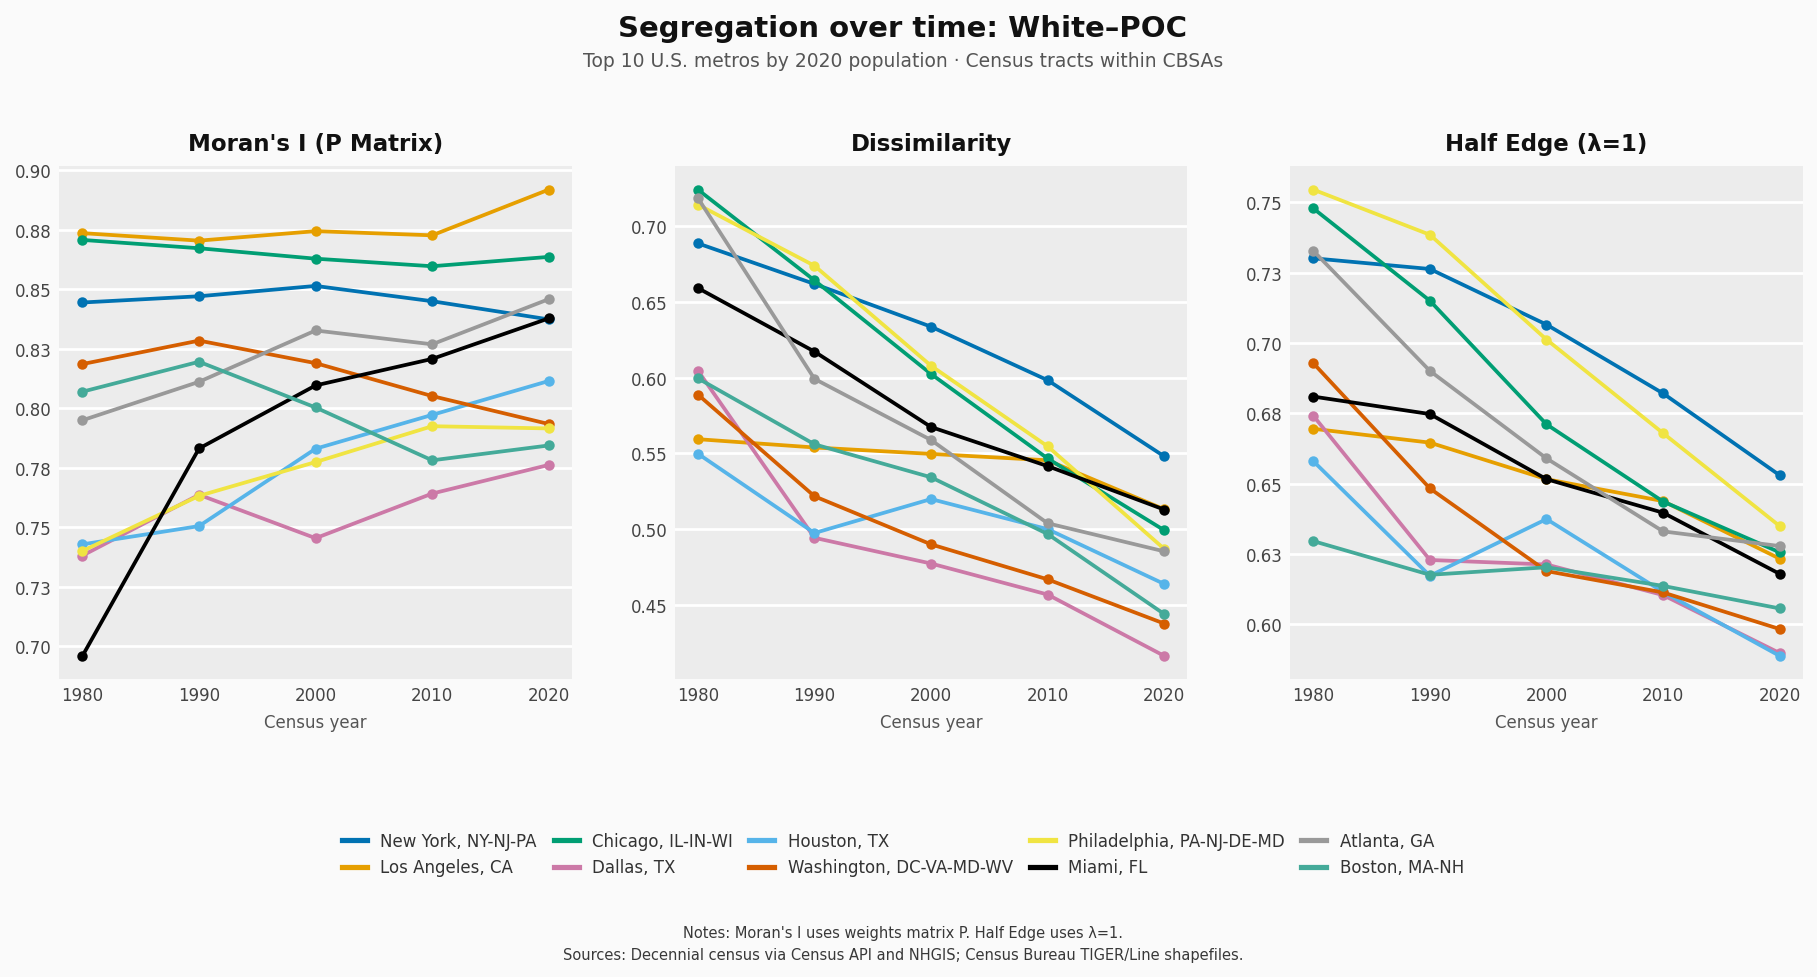
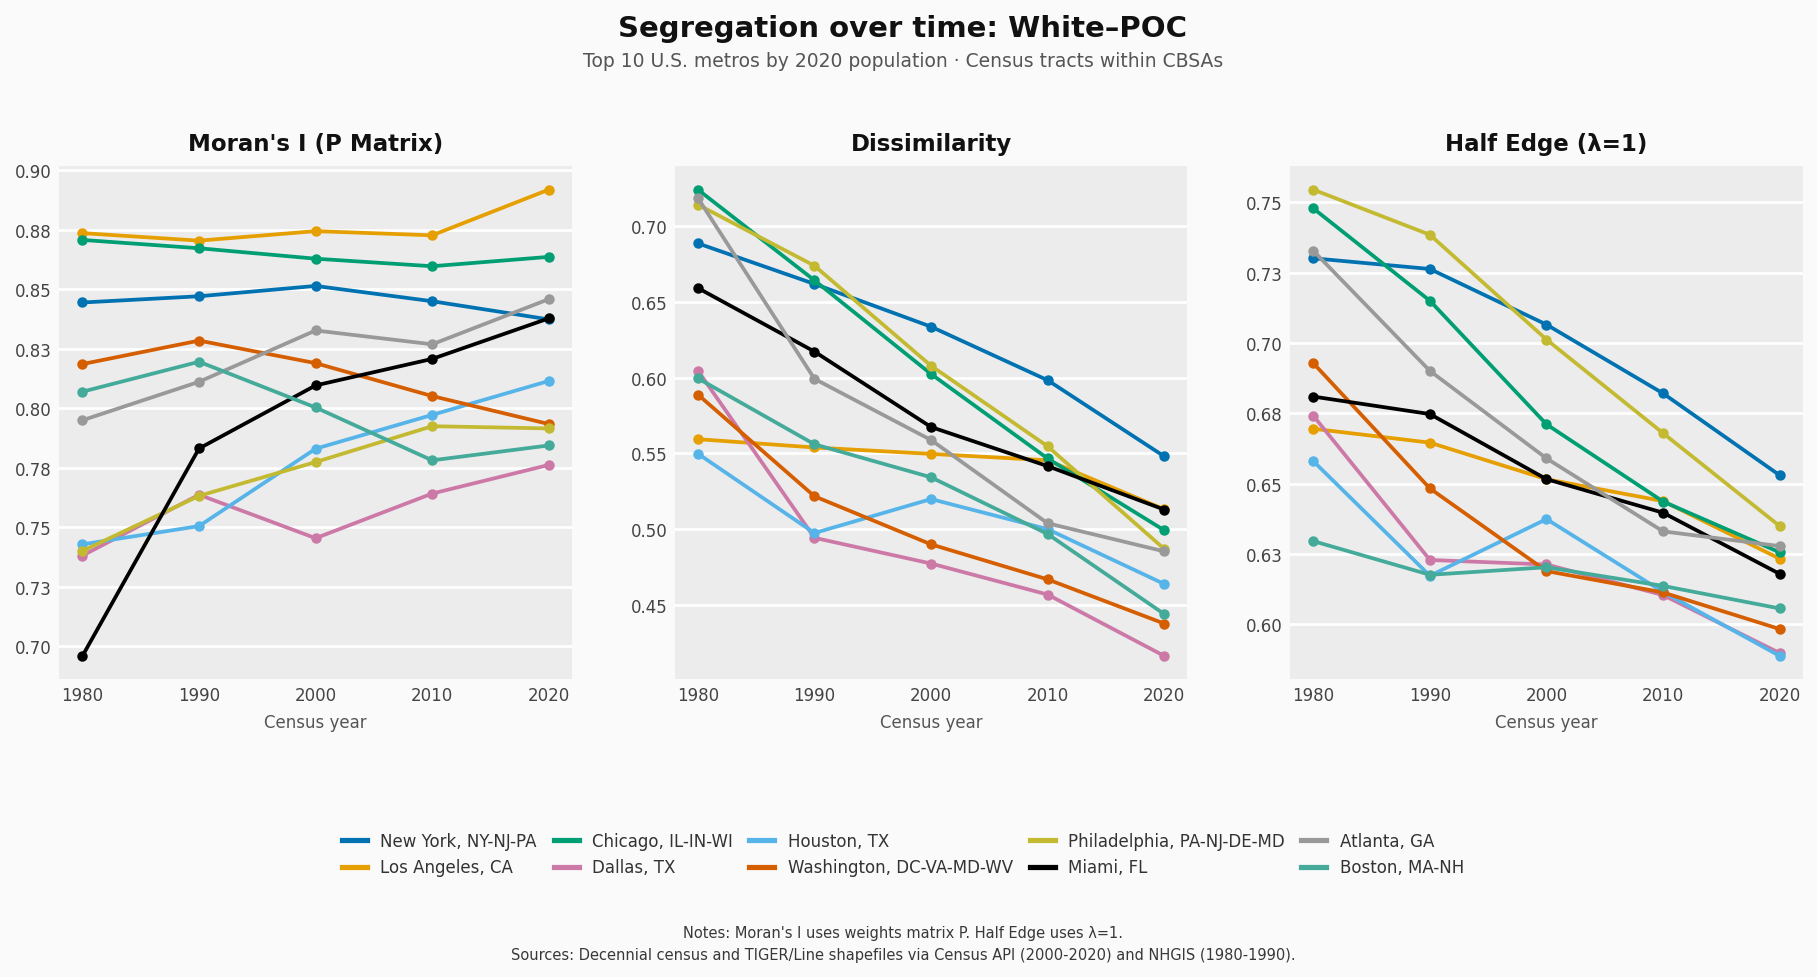
update figures

diff --git a/pipeline/generate_figures.py b/pipeline/generate_figures.py
@@ -18,7 +18,7 @@ PALETTE = [
     "#cc79a7",  # mauve
     "#56b4e9",  # sky
     "#d55e00",  # vermillion
-    "#f0e442",  # yellow
+    "#c3ba32",  # yellow
     "#000000",  # black
     "#999999",  # gray
     "#44aa99",  # teal
@@ -29,6 +29,42 @@ GRID_METRICS = {
     "dissimilarity_1": "Dissimilarity",
     "half_edge_1": "Half Edge (λ=1)",
 }
+
+
+def _build_metric_labels() -> dict:
+    lam_display = {"0": "λ=0", "0.5": "λ=0.5", "1": "λ=1", "2": "λ=2", "10": "λ=10", "lim": "λ=∞"}
+    bases = {
+        "skew_self":   "Skew (self)",
+        "skew_other":  "Skew (other)",
+        "edge":        "Edge",
+        "skew'_self":  "Skew′ (self)",
+        "skew'_other": "Skew′ (other)",
+        "half_edge":   "Half Edge",
+    }
+    labels = {}
+    for lam, lam_label in lam_display.items():
+        for base, title in bases.items():
+            labels[f"{base}_{lam}"] = (title, lam_label)
+            labels[f"{base}_exact_{lam}"] = (title, f"Exact counts; {lam_label}")
+    _dissim_labels = {1: "L1 norm (standard)", 2: "L2 norm", 10: "L10 norm"}
+    for p in [1, 2, 10]:
+        labels[f"dissimilarity_{p}"] = ("Dissimilarity", _dissim_labels[p])
+    labels.update({
+        "e_assort": ("Assortativity", "Edge"),
+        "he_assort": ("Assortativity", "Half-edge"),
+        "frey": ("Frey Index", ""),
+        "gini": ("Gini Coefficient", ""),
+    })
+    for suffix, subtitle in [
+        ("A", "Adjacency"), ("P", "Adjacency normalized (P-matrix)"),
+        ("L", "Laplacian"), ("M", "Metropolis (M-matrix)"),
+        ("D_1", "Degree-weighted (d=1)"), ("D_2", "Degree-weighted (d=2)"),
+    ]:
+        labels[f"moran_{suffix}"] = ("Moran's I", subtitle)
+        labels[f"moran_{suffix}_white"] = ("Moran's I (White)", subtitle)
+    return labels
+
+METRIC_LABELS = _build_metric_labels()
 
 
 def _short_name(cbsa_title: str) -> str:
@@ -173,7 +209,7 @@ def plot_grid_top10(
         axes = [axes]
 
     for ax, metric in zip(axes, available):
-        # _apply_panel_style(ax, years, (0.4, 0.9))
+        # _apply_panel_style(ax, years, (-1, 0.92))
         _apply_panel_style(ax, years, None)
         ax.set_title(GRID_METRICS[metric], fontsize=11, fontweight="bold", pad=8, color="#111111")
         for cbsa in top_n_metros:
@@ -212,7 +248,7 @@ def plot_grid_top10(
     fig.text(
         0.5, -0.22,
         "Notes: Moran's I uses weights matrix P. Half Edge uses λ=1.\n"
-        "Sources: Decennial census via Census API and NHGIS; Census Bureau TIGER/Line shapefiles.",
+        "Sources: Decennial census and TIGER/Line shapefiles via Census API (2000-2020) and NHGIS (1980-1990).",
         ha="center", fontsize=7, color="#383838", linespacing=1.6,
     )
 
@@ -292,7 +328,7 @@ def plot_grid_all(
     fig.text(
         0.5, -0.16,
         "Notes: Moran's I uses weights matrix P. Half Edge uses λ=1.\n"
-        "Sources: Decennial census via Census API and NHGIS; Census Bureau TIGER/Line shapefiles.",
+        "Sources: Decennial census and TIGER/Line shapefiles via Census API (2000-2020) and NHGIS (1980-1990).",
         ha="center", fontsize=7, color="#383838", linespacing=1.6,
     )
 
@@ -303,6 +339,109 @@ def plot_grid_all(
         dpi=150, bbox_inches="tight", facecolor=BG,
     )
     plt.close(fig)
+
+
+def plot_family_grids(
+    df: pd.DataFrame,
+    prefix: str,
+    month_year: str,
+    output_dir: Path,
+    n: int = 10,
+    n_cols: int = 6,
+) -> None:
+    BG = "#fafafa"
+    month_year_df = df[df["definition_month_year"] == month_year]
+    top_n_metros = list(month_year_df["cbsa_title"].drop_duplicates()[:n])
+    plot_df = (
+        month_year_df[month_year_df["cbsa_title"].isin(top_n_metros)]
+        .sort_values(["cbsa_title", "year"])
+    )
+
+    color_map = {cbsa: PALETTE[i % len(PALETTE)] for i, cbsa in enumerate(top_n_metros)}
+    years = sorted(plot_df["year"].unique())
+    pair_label = "White–Black" if "black" in prefix else "White–POC"
+
+    # Group available metrics by family title from METRIC_LABELS.
+    families: dict = {}
+    for metric in METRICS:
+        if metric not in plot_df.columns:
+            continue
+        title, subtitle = METRIC_LABELS.get(metric, (metric.replace("_", " ").title(), ""))
+        families.setdefault(title, []).append((metric, subtitle))
+
+    family_dir = output_dir / "metric_family_grids"
+    family_dir.mkdir(parents=True, exist_ok=True)
+
+    handles = [
+        plt.Line2D([0], [0], color=color_map[c], linewidth=2.5, label=_short_name(c))
+        for c in top_n_metros
+    ]
+
+    for family_title, members in families.items():
+        n_metrics = len(members)
+        cols = min(n_metrics, n_cols)
+        rows = (n_metrics + cols - 1) // cols
+
+        fig, axes = plt.subplots(
+            rows, cols,
+            figsize=(5 * cols, 5 * rows),
+            facecolor=BG,
+            sharey=False,
+            squeeze=False,
+        )
+
+        for idx, (metric, subtitle) in enumerate(members):
+            ax = axes[idx // cols][idx % cols]
+            _apply_panel_style(ax, years, None)
+            ax.set_title(
+                subtitle if subtitle else family_title,
+                fontsize=10, fontweight="bold", pad=8, color="#111111",
+            )
+            for cbsa in top_n_metros:
+                cbsa_df = plot_df[plot_df["cbsa_title"] == cbsa]
+                ax.plot(
+                    cbsa_df["year"], cbsa_df[metric],
+                    color=color_map[cbsa], linewidth=1.8, marker="o", markersize=4, zorder=2,
+                )
+
+        for idx in range(n_metrics, rows * cols):
+            axes[idx // cols][idx % cols].set_visible(False)
+
+        SUPTITLE_Y = 1.02
+        fig.suptitle(
+            f"{family_title} · Segregation over time: {pair_label}",
+            fontsize=14, fontweight="bold", color="#111111", y=SUPTITLE_Y,
+        )
+        fig.legend(
+            handles=handles,
+            loc="lower center",
+            ncol=min(5, len(top_n_metros)),
+            bbox_to_anchor=(0.5, -0.03),
+            frameon=False,
+            fontsize=8,
+            handlelength=1.5,
+            columnspacing=1.0,
+            labelcolor="#333333",
+        )
+        # Anchor subtitle a constant 20pt below the suptitle centre, converting
+        # points → figure-fraction so it stays visually fixed across row counts.
+        subtitle_y = SUPTITLE_Y - 20 / (72 * fig.get_figheight())
+        fig.text(
+            0.5, subtitle_y,
+            f"Top {n} U.S. metros by 2020 population · Census tracts in CBSAs",
+            ha="center", va="top", fontsize=9, color="#555555",
+        )
+
+        safe_name = (
+            family_title.lower()
+            .replace("'", "").replace("(", "").replace(")", "")
+            .replace(" ", "_")
+        )
+        fig.savefig(
+            family_dir / f"{prefix}_{safe_name}.png",
+            dpi=150, bbox_inches="tight", facecolor=BG,
+        )
+        plt.close(fig)
 
 
 def ensure_metadata(df: pd.DataFrame) -> pd.DataFrame:
@@ -353,14 +492,18 @@ def main(
                     color=color_map[cbsa], linewidth=1.8, marker="o", markersize=4, zorder=2,
                 )
 
-            display_label = GRID_METRICS.get(metric, metric.replace("_", " ").title())
-            ax.set_title(display_label, fontsize=13, fontweight="bold", pad=10, color="#111111")
+            title, subtitle = METRIC_LABELS.get(metric, (metric.replace("_", " ").title(), ""))
+            ax.set_title(title, fontsize=13, fontweight="bold",
+                         pad=30 if subtitle else 10, color="#111111")
+            if subtitle:
+                ax.text(0.5, 1.04, subtitle, transform=ax.transAxes,
+                        ha="center", va="bottom", fontsize=9, color="#777777")
             fig.suptitle(
                 f"Segregation over time: {pair_label}",
-                fontsize=14, fontweight="bold", color="#111111", y=1.04,
+                fontsize=14, fontweight="bold", color="#111111", y=1.06,
             )
             fig.text(
-                0.5, 0.99,
+                0.5, 1,
                 f"Top {n} U.S. metros by 2020 population · Census tracts in CBSAs",
                 ha="center", fontsize=9, color="#555555",
             )
@@ -389,6 +532,7 @@ def main(
 
         plot_grid_top10(df, prefix, month_year, output_dir, n)
         plot_grid_all(df, prefix, month_year, output_dir)
+        plot_family_grids(df, prefix, month_year, output_dir, n)
 
 
 if __name__ == "__main__":

diff --git a/pipeline/calculate_metrics.py b/pipeline/calculate_metrics.py
@@ -25,11 +25,37 @@ def study_area_code_from_filename(filename: str) -> str:
     return study_area_identity.rsplit("_", 1)[-1]
 
 
+def build_headers(x_col: str, y_col: str, tot_col: str) -> str:
+    keys = ["filename", "x_col", "y_col", "tot_col", "angle_1", "angle_2", "e_assort", "he_assort"]
+    for lam in [0, 0.5, 1, 2, 10, None]:
+        s = "lim" if lam is None else str(lam)
+        keys += [
+            f"skew_self_{s}", f"skew_other_{s}", f"edge_{s}",
+            f"skew'_self_{s}", f"skew'_other_{s}", f"half_edge_{s}",
+            f"skew_self_exact_{s}", f"skew_other_exact_{s}", f"edge_exact_{s}",
+            f"skew'_self_exact_{s}", f"skew'_other_exact_{s}", f"half_edge_exact_{s}",
+        ]
+    for p in [1, 2, 10]:
+        keys.append(f"dissimilarity_{p}")
+    keys += [
+        "frey", "gini",
+        "moran_A", "moran_P", "moran_L", "moran_M",
+        "moran_D_1", "moran_D_2",
+        "total_population", "total_white", "total_poc", "total_black",
+        "total_x", "total_y",
+        "total_nodes", "total_edges",
+    ]
+    return ",".join(keys)
+
+
 def main(
     filename: str, x_col: str, y_col: str, tot_col: str, headers_only: bool = False
 ):
+    if headers_only:
+        print(build_headers(x_col, y_col, tot_col))
+        return
     try:
-        run_metrics(filename, x_col, y_col, tot_col, headers_only)
+        run_metrics(filename, x_col, y_col, tot_col)
     except ZeroDivisionError as e:
         metric_failures_file = os.environ.get(
             "METRIC_FAILURES_FILE", "outputs/metric_failures.csv"
@@ -46,9 +72,7 @@ def main(
 
 
 
-def run_metrics(
-    filename: str, x_col: str, y_col: str, tot_col: str, headers_only: bool = False
-):
+def run_metrics(filename: str, x_col: str, y_col: str, tot_col: str):
     graph = gerrychain.Graph.from_json(filename)
 
     capy_metrics = {}
@@ -118,13 +142,7 @@ def run_metrics(
     capy_metrics["total_nodes"] = len(graph.nodes())
     capy_metrics["total_edges"] = len(graph.edges())
 
-    capy_metrics_keys = ",".join(map(str, list(capy_metrics.keys())))
-    capy_metrics_values = ",".join(map(str, list(capy_metrics.values())))
-
-    if headers_only:
-        print(capy_metrics_keys)
-    else:
-        print(capy_metrics_values)
+    print(",".join(map(str, list(capy_metrics.values()))))
 
 
 def angle_1(graph: gerrychain.Graph, x_col: str, y_col: str, lam: float = 1) -> float:
@@ -400,7 +418,7 @@ def inv_dist_square(x1, y1, x2, y2):
     d = (x1 - x2)**2 + (y1 - y2)**2
     return 1 / d
 
-def make_dist_weights(graph: Gerrychain.graph, dist_funcs: list):
+def make_dist_weights(graph: gerrychain.graph, dist_funcs: list):
 
     weights = []
     names = []

diff --git a/outputs/tracts_in_cbsa/figures/README.md b/outputs/tracts_in_cbsa/figures/README.md
@@ -4,4 +4,5 @@ This folder stores the figures produced using pipeline outputs.
     - `_top10` plots show only 10 largest graphs (with versions - showing the mean over all CBSAs, with fixed y-axis for all metrics and with a free y-axis),
     - `_all_cbsa` show all of them and the yearly mean.
 - `lineplots` show individual metric line plots.
+- `metric_family_grids` groups metrics by family and puts them on a grid.
 - `other_highlights` (rename?) will store other plots.